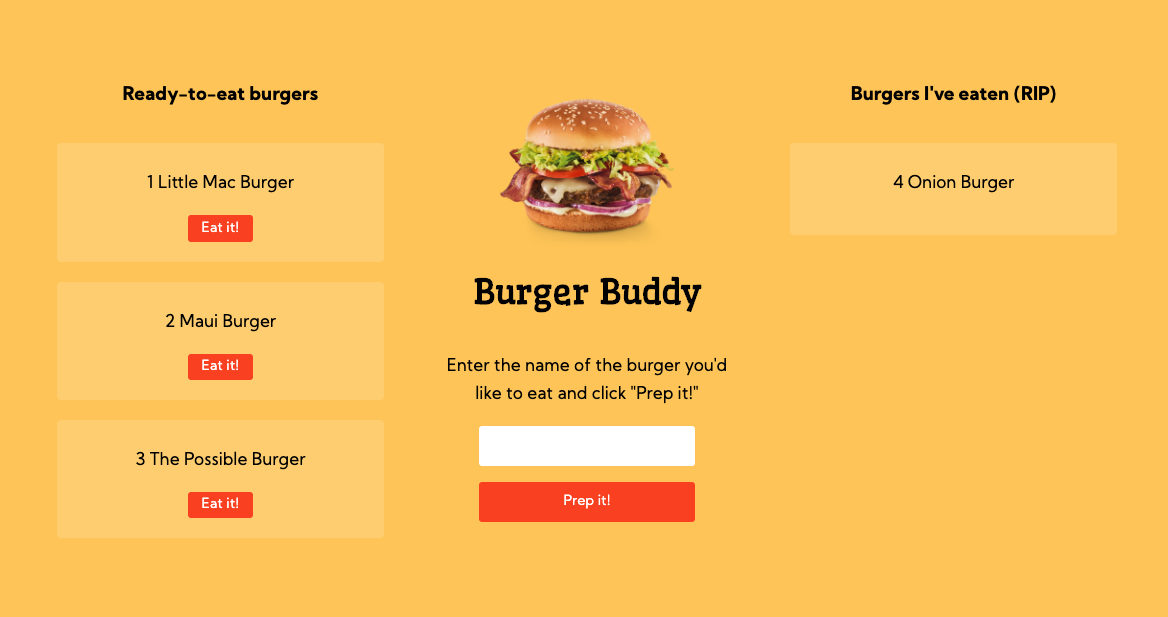
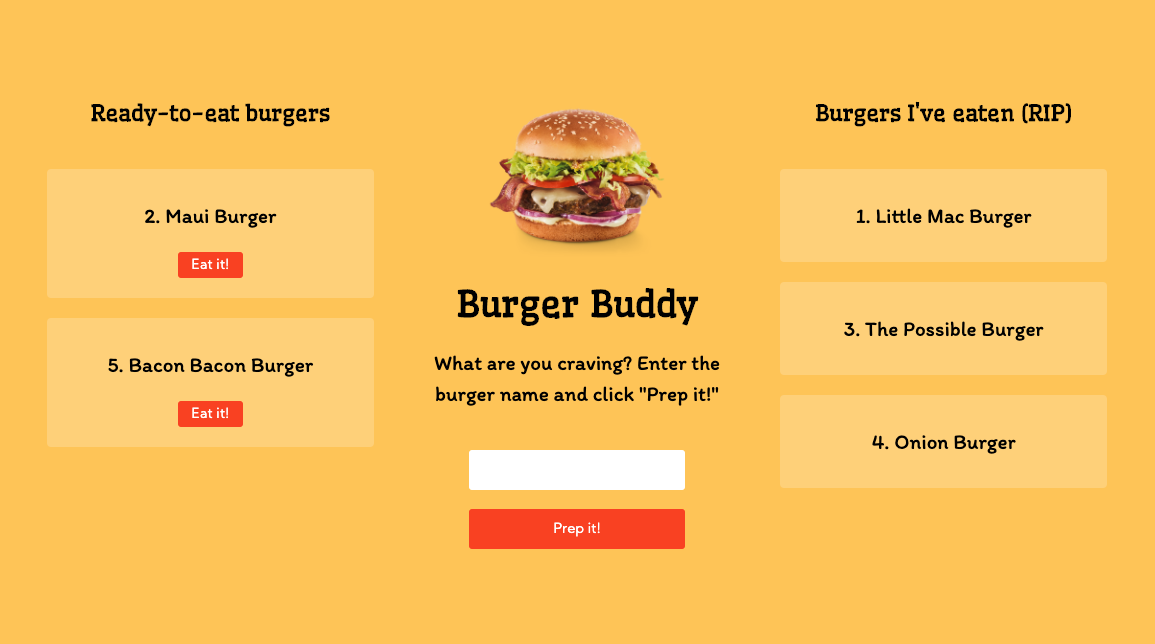
styling

diff --git a/public/assets/css/styles.css b/public/assets/css/styles.css
@@ -5,23 +5,37 @@
   align-items: center;
 }
 
+.prep-burger{
+    margin-top: 20px;
+}
+
 body {
   margin: 10px;
   background-color: #fecb62;
-  font-family: "Kumbh Sans", sans-serif;
+  font-family: 'Itim', cursive;
 }
 
 p {
-  font-size: 17px;
+  font-size: 21px;
   text-align: center;
-  line-height: 1.7;
+  line-height: 1.5;
 }
 
-h1
+h1,
+h2,
+h3
 {
   font-family: "Wellfleet", sans-serif;
-  font-size: 34px;
   text-align: center;
+}
+
+h3 {
+    font-size: 22px;
+}
+
+h1 {
+    font-size: 36px;
+    margin-bottom: 0px;
 }
 
 #burger-pic {
@@ -30,11 +44,21 @@ h1
 
 .burger {
   margin-top: 20px;
-  background-color: rgba(255, 255, 255, 0.15);
   border-radius: 4px;
-  padding: 10px 10px 20px 10px;
   width: 100%;
 }
+
+.prepped {
+    background-color: rgba(255, 255, 255, 0.2);
+    padding: 10px 10px 20px 10px;
+}
+
+.eaten {
+    background-color: rgba(255, 255, 255, 0.2);
+    padding: 10px;
+}
+
+
 
 button,input[type="submit"] {
   /* display: inline-block; */
